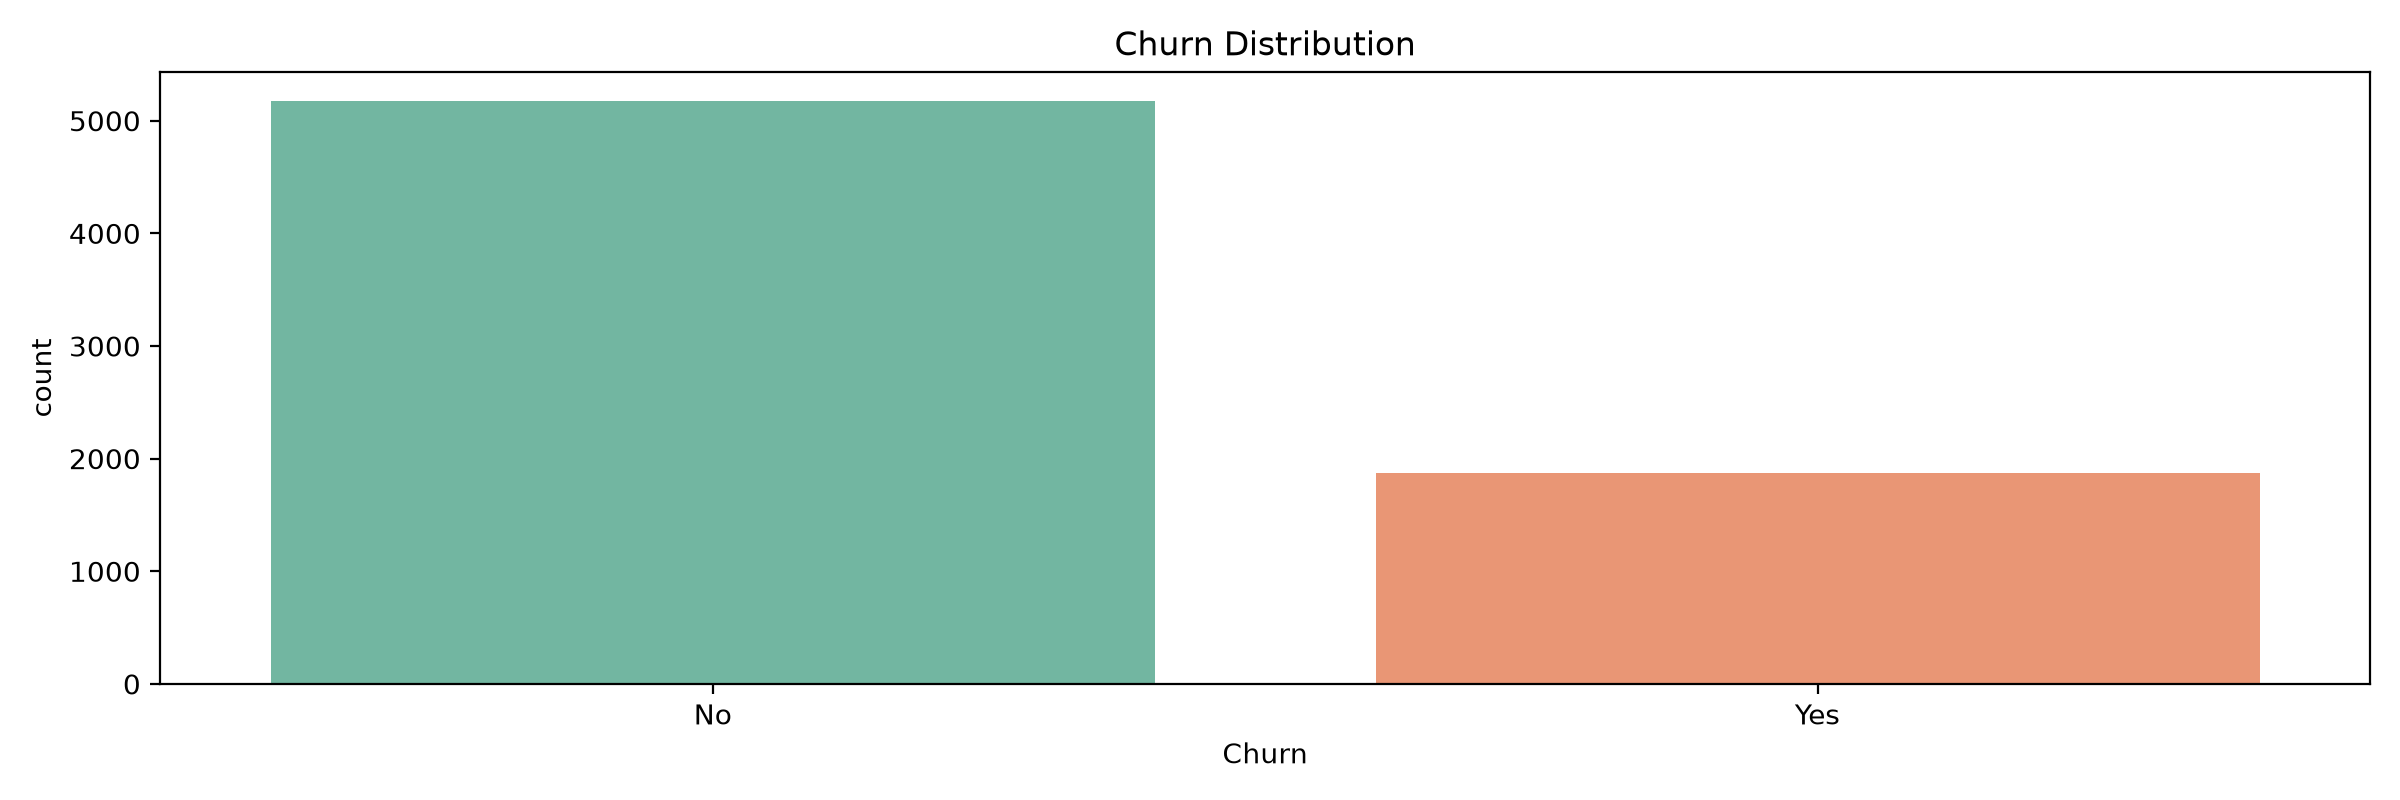
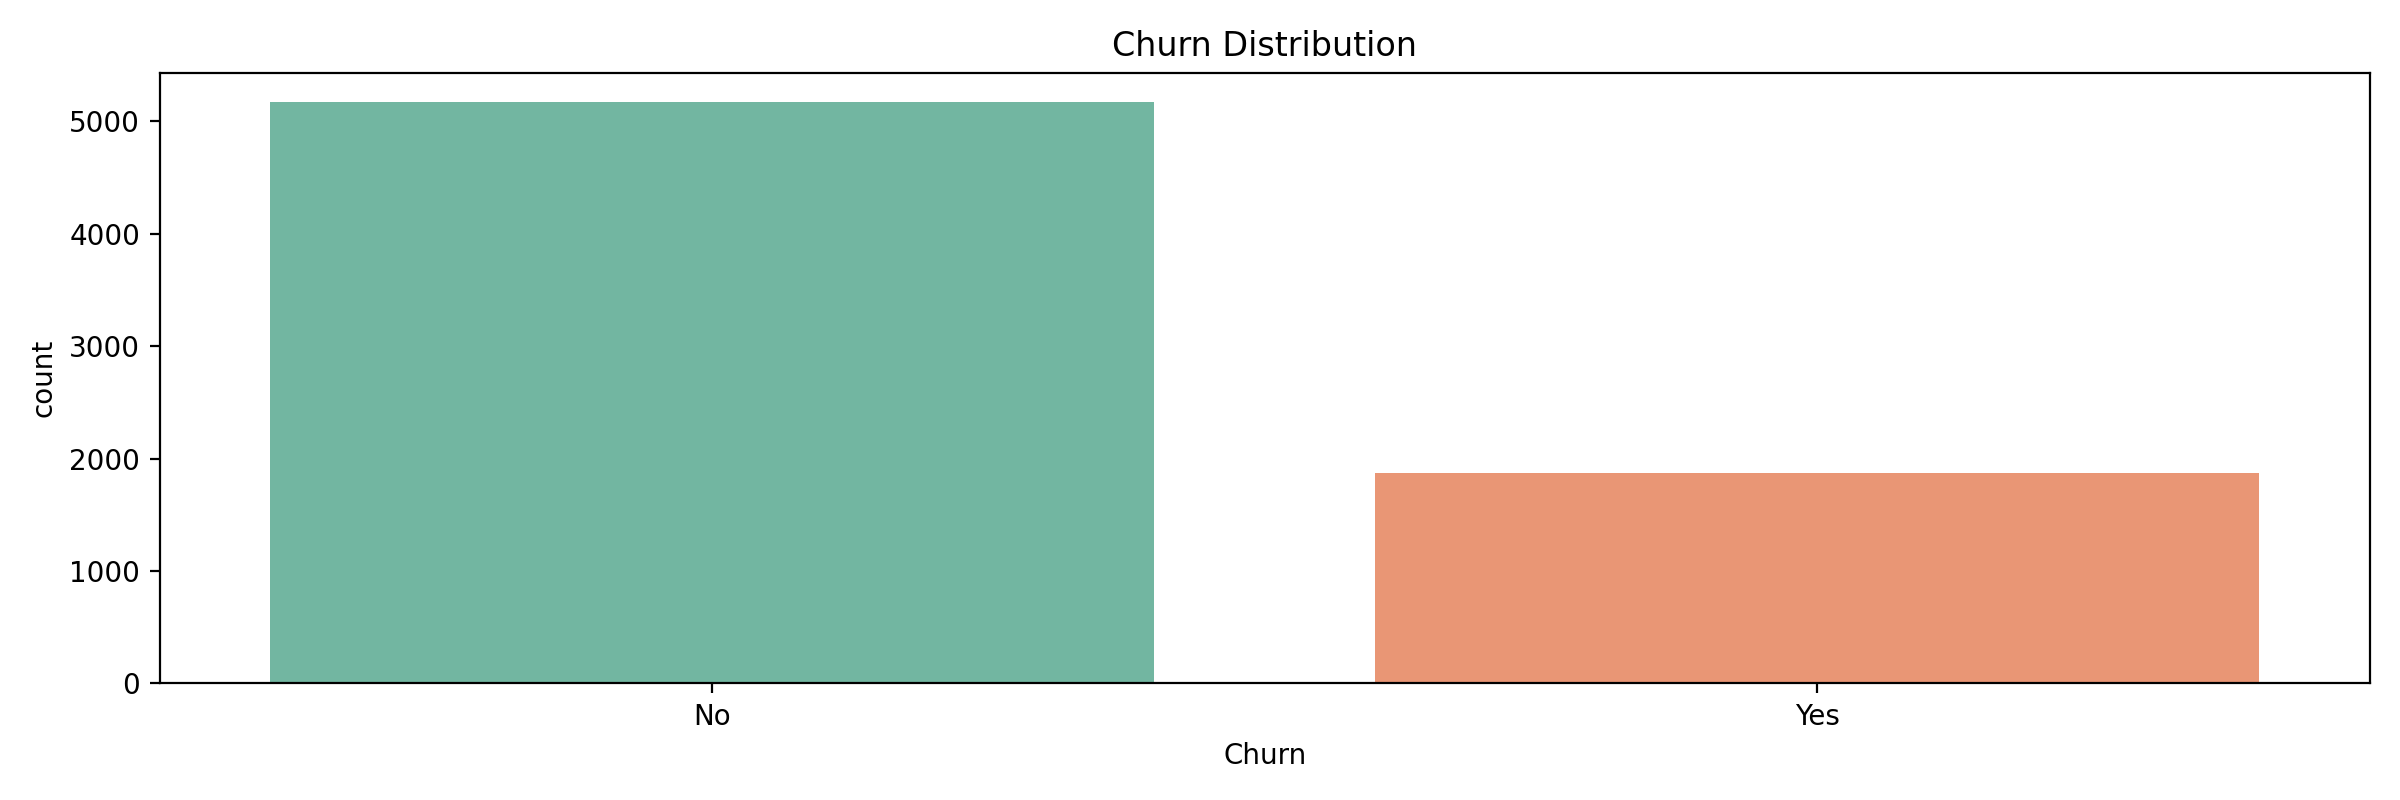
Feat: Churn project telecom

diff --git a/train_model.py b/train_model.py
@@ -8,6 +8,8 @@ import matplotlib.pyplot as plt
 import numpy as np
 import pandas as pd
 import seaborn as sns
+from sklearn.ensemble import RandomForestClassifier
+from sklearn.linear_model import LogisticRegression
 from sklearn.compose import ColumnTransformer
 from sklearn.impute import SimpleImputer
 from sklearn.metrics import (
@@ -31,6 +33,34 @@ if not DATA_PATH.exists():
     raise FileNotFoundError(f'Dataset not found at {DATA_PATH}. Please ensure the file is copied into the data folder.')
 
 
+SERVICE_COLS = [
+    'PhoneService',
+    'OnlineSecurity',
+    'OnlineBackup',
+    'DeviceProtection',
+    'TechSupport',
+    'StreamingTV',
+    'StreamingMovies',
+]
+
+
+def service_indicator(value: object) -> int:
+    normalized = str(value).strip().lower()
+    if normalized in {'yes', '1', 'true'}:
+        return 1
+    if normalized in {'no', '0', 'false', 'no phone service', 'no internet service', 'nan', 'none'}:
+        return 0
+    return 0
+
+
+def add_business_features(df: pd.DataFrame) -> pd.DataFrame:
+    df = df.copy()
+    service_values = df[SERVICE_COLS].apply(lambda column: column.map(service_indicator)).astype(int)
+    df['has_multiple_services'] = (service_values.sum(axis=1) > 1).astype(int)
+    df['charges_per_tenure'] = df['MonthlyCharges'] / df['tenure'].replace(0, 1)
+    return df
+
+
 def add_engineered_features(df: pd.DataFrame) -> pd.DataFrame:
     df = df.copy()
     df['TotalCharges'] = pd.to_numeric(df['TotalCharges'], errors='coerce')
@@ -41,21 +71,7 @@ def add_engineered_features(df: pd.DataFrame) -> pd.DataFrame:
         labels=['0-12', '13-24', '25-48', '48+'],
         right=False,
     )
-
-    service_cols = [
-        'PhoneService',
-        'OnlineSecurity',
-        'OnlineBackup',
-        'DeviceProtection',
-        'TechSupport',
-        'StreamingTV',
-        'StreamingMovies',
-    ]
-    service_map = {'Yes': 1, 'No': 0, 'No phone service': 0, 'No internet service': 0}
-    service_values = df[service_cols].replace(service_map).astype(int)
-    df['has_multiple_services'] = (service_values.sum(axis=1) > 1).astype(int)
-    df['charges_per_tenure'] = df['MonthlyCharges'] / df['tenure'].replace(0, 1)
-    return df
+    return add_business_features(df)
 
 
 def load_and_prepare_data() -> pd.DataFrame:
@@ -68,6 +84,7 @@ def prepare_customer_record(raw_record: dict) -> dict:
     record = dict(raw_record)
     record['TotalCharges'] = pd.to_numeric(record.get('TotalCharges', 0), errors='coerce')
     record['MonthlyCharges'] = pd.to_numeric(record.get('MonthlyCharges', 0), errors='coerce')
+    record['tenure'] = int(record.get('tenure', 0) or 0)
     record['tenure_bucket'] = pd.cut(
         [record.get('tenure', 0)],
         bins=[0, 12, 24, 48, np.inf],
@@ -75,22 +92,8 @@ def prepare_customer_record(raw_record: dict) -> dict:
         right=False,
     )[0]
 
-    service_cols = [
-        'PhoneService',
-        'OnlineSecurity',
-        'OnlineBackup',
-        'DeviceProtection',
-        'TechSupport',
-        'StreamingTV',
-        'StreamingMovies',
-    ]
     record['has_multiple_services'] = int(
-        sum(
-            1
-            for col in service_cols
-            if str(record.get(col, 'No')).lower() in {'yes', '1', 'true', 'no internet service'}
-        )
-        > 1
+        sum(service_indicator(record.get(col, 'No')) for col in SERVICE_COLS) > 1
     )
     record['charges_per_tenure'] = float(record.get('MonthlyCharges', 0) / max(record.get('tenure', 1), 1))
     return record
@@ -137,6 +140,22 @@ def evaluate_model(pipe: Pipeline, X_test: pd.DataFrame, y_test: pd.Series, name
     return metrics
 
 
+def build_business_insights(df: pd.DataFrame) -> list[str]:
+    churn_share = df['Churn'].value_counts(normalize=True).mul(100)
+    contract_churn = df.groupby('Contract')['Churn'].apply(lambda values: (values == 'Yes').mean()).mul(100)
+    internet_churn = df.groupby('InternetService')['Churn'].apply(lambda values: (values == 'Yes').mean()).mul(100)
+    tenure_churn = df.groupby('tenure_bucket', observed=False)['Churn'].apply(lambda values: (values == 'Yes').mean()).mul(100)
+    payment_churn = df.groupby('PaymentMethod')['Churn'].apply(lambda values: (values == 'Yes').mean()).mul(100)
+
+    return [
+        f"Churn is imbalanced: {churn_share['Yes']:.1f}% of customers leave, so recall matters more than raw accuracy.",
+        f"Month-to-month customers churn the most at {contract_churn.get('Month-to-month', 0):.1f}%, making contract type a strong retention signal.",
+        f"Fiber optic customers show the highest churn among internet segments at {internet_churn.max():.1f}%, suggesting service experience or price sensitivity.",
+        f"Customers in the first tenure bucket (0-12 months) churn at {tenure_churn.get('0-12', 0):.1f}%, so early-life retention offers are likely to pay off.",
+        f"The highest-risk payment method is {payment_churn.idxmax()} at {payment_churn.max():.1f}% churn, which can help target billing-related interventions.",
+    ]
+
+
 def main():
     df = load_and_prepare_data()
     X = df.drop(columns=['customerID', 'Churn'])
@@ -151,13 +170,22 @@ def main():
     )
 
     models = [
-        ('tree_depth_3', DecisionTreeClassifier(max_depth=3, random_state=42)),
-        ('tree_depth_4', DecisionTreeClassifier(max_depth=4, random_state=42)),
-        ('tree_depth_5', DecisionTreeClassifier(max_depth=5, random_state=42)),
-        ('tree_depth_5_leaf', DecisionTreeClassifier(max_depth=5, min_samples_leaf=10, random_state=42)),
-        ('tree_depth_6', DecisionTreeClassifier(max_depth=6, random_state=42)),
-        ('tree_depth_6_balanced', DecisionTreeClassifier(max_depth=6, class_weight='balanced', random_state=42)),
-        ('tree_depth_8_balanced', DecisionTreeClassifier(max_depth=8, class_weight='balanced', random_state=42)),
+        (
+            'logistic_regression_balanced',
+            LogisticRegression(max_iter=1000, class_weight='balanced', solver='liblinear', random_state=42),
+        ),
+        ('decision_tree_balanced', DecisionTreeClassifier(max_depth=6, class_weight='balanced', random_state=42)),
+        (
+            'random_forest_balanced',
+            RandomForestClassifier(
+                n_estimators=300,
+                max_depth=8,
+                min_samples_leaf=5,
+                class_weight='balanced',
+                random_state=42,
+                n_jobs=-1,
+            ),
+        ),
     ]
 
     results = []
@@ -193,17 +221,39 @@ def main():
     notebook_dir.mkdir(exist_ok=True, parents=True)
 
     plt.figure(figsize=(12, 4))
-    sns.countplot(data=df, x='Churn', palette='Set2')
+    sns.countplot(data=df, x='Churn', hue='Churn', palette='Set2', legend=False)
     plt.title('Churn Distribution')
     plt.tight_layout()
     plt.savefig(notebook_dir / 'churn_distribution.png', dpi=200)
     plt.close()
 
     plt.figure(figsize=(12, 4))
-    sns.boxplot(data=df, x='Churn', y='MonthlyCharges', palette='Set2')
+    sns.boxplot(data=df, x='Churn', y='MonthlyCharges', hue='Churn', palette='Set2', legend=False)
     plt.title('Monthly Charges by Churn Status')
     plt.tight_layout()
     plt.savefig(notebook_dir / 'monthly_charges_by_churn.png', dpi=200)
+    plt.close()
+
+    plt.figure(figsize=(12, 5))
+    sns.countplot(data=df, x='Contract', hue='Churn', palette='Set2')
+    plt.title('Churn by Contract Type')
+    plt.xticks(rotation=15)
+    plt.tight_layout()
+    plt.savefig(notebook_dir / 'contract_type_by_churn.png', dpi=200)
+    plt.close()
+
+    plt.figure(figsize=(12, 5))
+    sns.countplot(data=df, x='InternetService', hue='Churn', palette='Set2')
+    plt.title('Churn by Internet Service')
+    plt.tight_layout()
+    plt.savefig(notebook_dir / 'internet_service_by_churn.png', dpi=200)
+    plt.close()
+
+    plt.figure(figsize=(12, 5))
+    sns.countplot(data=df, x='tenure_bucket', hue='Churn', palette='Set2')
+    plt.title('Churn by Tenure Bucket')
+    plt.tight_layout()
+    plt.savefig(notebook_dir / 'tenure_bucket_by_churn.png', dpi=200)
     plt.close()
 
     print('Created summary EDA plots in notebook/')
@@ -215,6 +265,14 @@ def main():
         'churn_counts': df['Churn'].value_counts().to_dict(),
         'best_model': best_name,
         'metrics': best_metrics,
+        'visualizations': [
+            'churn_distribution.png',
+            'monthly_charges_by_churn.png',
+            'contract_type_by_churn.png',
+            'internet_service_by_churn.png',
+            'tenure_bucket_by_churn.png',
+        ],
+        'business_insights': build_business_insights(df),
     }
     summary_path.write_text(json.dumps(summary, indent=2))
 
